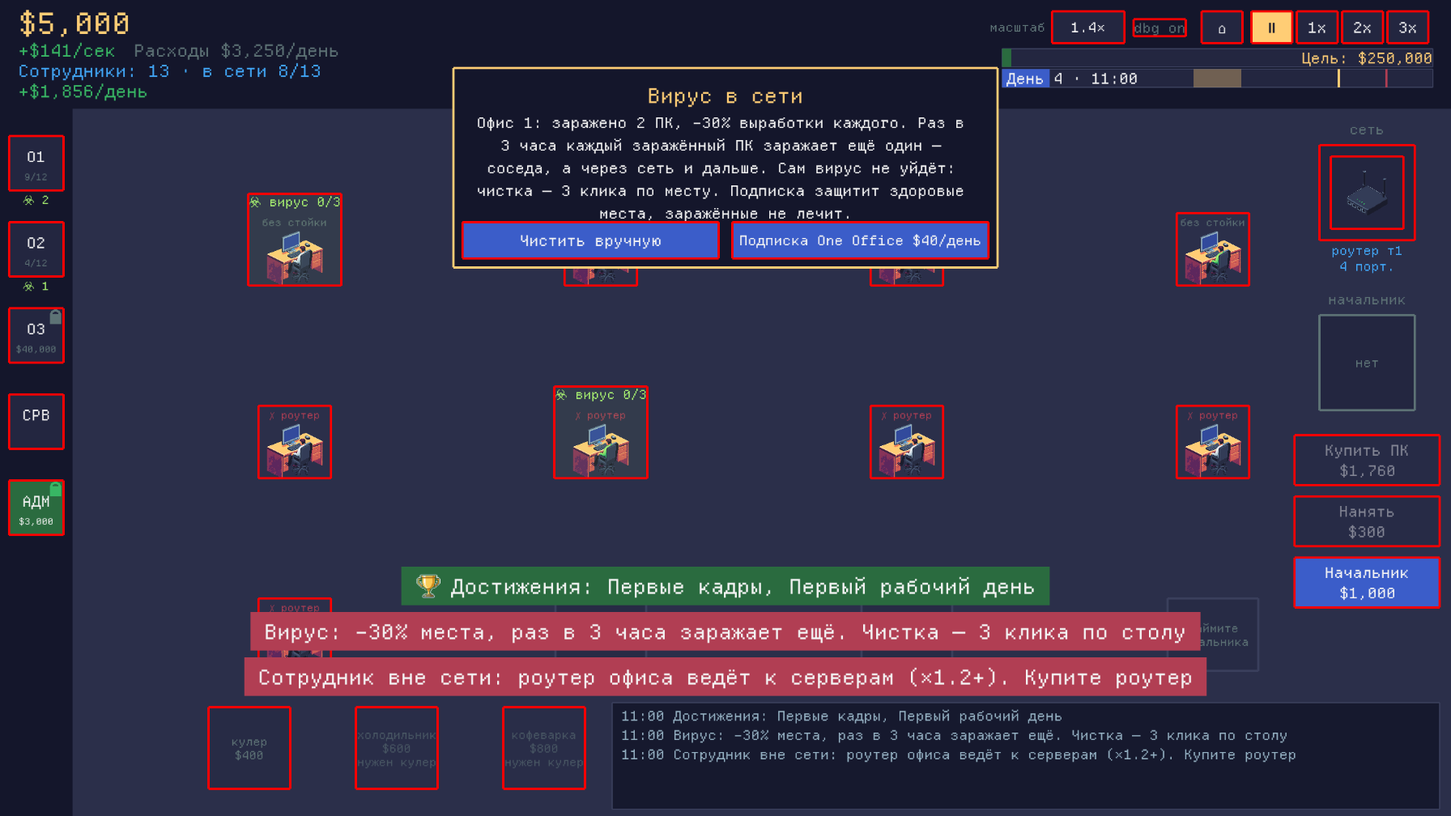
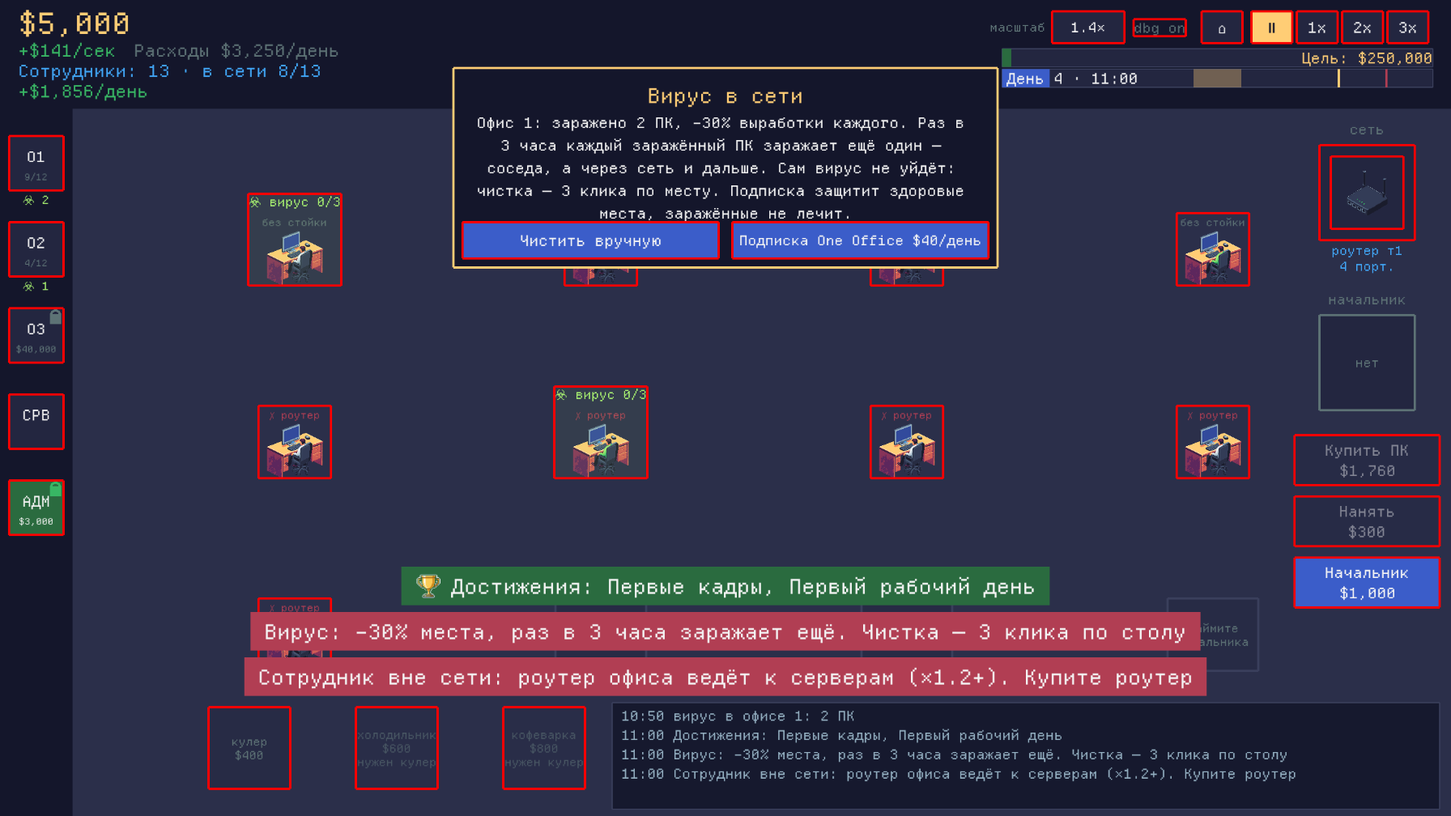
feat(game+client): the HUD feed runs in time order — the day's event outcomes arrive live in state.dayLog and go in when they happen, «10:00 Новый день N» marks the day — ITGAME-163 (owner 18.10, variant C of the 150 acceptance)
The owner's answer in the 146/147/150 acceptance (п.4) was «событие в 10:00
утра „новый день“»; asked in detail, he chose C: the feed is a live stream.
Before, the server sent the day's event outcomes (EventLog: virus, deadline,
audit, a card's choice) only with the evening report, so the clock ran back
in the strip — «18:40 Кулер (О1)» then «10:50 вирус в офисе 1…».

Server: stateMessage.dayLog — the current day's EventLog «HH:MM текст», the
same lines dayReport.events gets, a copy (the party's log keeps growing, the
snapshot is written to the socket later), [] not null.

Client (src/eventlog.ts, no Phaser): parseLogLine splits the server's own
«HH:MM» (ITGAME-150); takeDayLog keeps a cursor «seed:day» → lines shown, so
the snapshot (live) and the evening report both read the journal and nothing
goes in twice — another day or party starts from the top, a shorter log of
the same day (restore) adds nothing; newDayLine gives «Новый день N» when a
snapshot of the same party brings a later day, with the clock of the day's
start even if the tab saw it after tick 0, one line after an offline gap of
several days. HUDScene.refresh puts, per snapshot, the new-day line, then the
snapshot diffs, then the journal lines, so a card's «Событие: …» precedes its
outcome; the report adds only unseen journal lines and the day summary last
(the ITGAME-150 key still stops a re-sent report from adding the summary
again); with skipReports the unseen journal lines go in too, the summary
[…]

Changed region(s): [[0.4375, 0.8611, 0.9062, 0.9534]]

diff --git a/client/src/scenes/HUDScene.ts b/client/src/scenes/HUDScene.ts
@@ -16,7 +16,8 @@ import { emitUi } from '../uibus'
 import { activeZoom, applyZoom, ZOOM_OPTIONS, zoomLabel } from '../uiscale'
 import { FONT, HIRES_CAMERA } from '../render'
 import { ONBOARD_STEPS, onboardStep } from '../onboarding'
-import { LOG_LINES, diffEvents, wrapHanging } from '../eventlog'
+import { LOG_LINES, diffEvents, newDayLine, takeDayLog, wrapHanging } from '../eventlog'
+import type { DayLogCursor } from '../eventlog'
 import { WORKDAY, dayShare, hourShare } from '../workday'
 import {
   checkAchievements,
@@ -122,6 +123,9 @@ export class HUDScene extends Phaser.Scene {
   // Отчёт, уже выложенный в журнал («сид:день», ITGAME-150): сервер пересылает отчёт
   // после переподключения в фазе day_report — второй раз его строки в журнал не идут.
   private logReport = ''
+  // Сколько строк журнала дня сервера («сид:день») лента уже положила (ITGAME-163): их
+  // читают и снапшот (state.dayLog, вживую), и вечерний отчёт — повторов нет.
+  private logDay: DayLogCursor = { key: '', shown: 0 }
   // Плашка онбординга (ITGAME-21): текущий шаг цепочки (null — не показываем) и её объекты.
   private coachStep: number | null = null
   private coachBg!: Phaser.GameObjects.Rectangle
@@ -367,6 +371,7 @@ export class HUDScene extends Phaser.Scene {
     this.logLines = []
     this.logPrev = null
     this.logReport = ''
+    this.logDay = { key: '', shown: 0 }
     tag(this.add.rectangle(540, 620, 730, 94, 0x14162b, 0.9).setOrigin(0).setStrokeStyle(1, 0x3a3f5c), 'hud.log.bg')
     this.logText = tag(this.add.text(548, 624, '', {
       fontFamily: FONT, fontSize: '12px', color: '#94b0c2', lineSpacing: 2,
@@ -821,7 +826,12 @@ export class HUDScene extends Phaser.Scene {
   }
 
   private refresh(s: StateMessage) {
+    // Лента (ITGAME-163): граница дня, изменения снапшота, итоги событий дня со своим
+    // «HH:MM» — в этом порядке, чтобы «Событие: …» вставало раньше своего исхода.
+    const newDay = newDayLine(this.logPrev, s)
+    if (newDay) this.logLine(newDay.text, newDay.clock ?? undefined)
     if (this.logPrev) for (const l of diffEvents(this.logPrev, s)) this.logLine(l)
+    this.putDayLog(`${s.seed}:${s.day}`, s.dayLog)
     this.logPrev = s
     if (s.phase === 'running') {
       try {
@@ -1115,6 +1125,13 @@ export class HUDScene extends Phaser.Scene {
     this.logText.setText(this.logLines.join('\n'))
   }
 
+  // Строки журнала дня сервера, которых лента ещё не видела (ITGAME-163).
+  private putDayLog(key: string, log: string[]) {
+    const { cursor, lines } = takeDayLog(this.logDay, key, log)
+    this.logDay = cursor
+    for (const l of lines) this.logLine(l.text, l.clock ?? undefined)
+  }
+
   private toast(text: string, ms = 1500, opts?: { top?: boolean; bg?: string; icon?: string }) {
     const where: 'top' | 'bottom' = opts?.top ? 'top' : 'bottom'
     const bg = opts?.bg ?? '#b13e53'
@@ -1253,6 +1270,8 @@ export class HUDScene extends Phaser.Scene {
     playSfx(this, r.profit >= 0 ? 'bong' : 'drop')
     if (this.skipReports) {
       client.send('next_day')
+      // Без окна отчёта строки дня, которых лента не видела, всё равно ложатся (ITGAME-163).
+      this.putDayLog(`${client.latest?.seed ?? ''}:${r.day}`, r.events)
       const toastBg = r.profit > 0 ? '#257179' : r.profit === 0 ? '#333c57' : '#b13e53'
       this.toast(
         `День ${r.day}: прибыль ${fmtMoney(r.profit)} · баланс ${fmtMoney(r.balance)}`,
@@ -1261,18 +1280,14 @@ export class HUDScene extends Phaser.Scene {
       )
       return
     }
-    // Журнал событий: строки дня, итог последним (в ветке skipReports итог кладёт тост).
-    // Строка журнала сервера начинается со своего «HH:MM» (logEvent) — в ленту идёт оно,
-    // а не часы прихода отчёта: было «19:00 · 10:50 вирус…» (ITGAME-150). Пересланный
-    // отчёт того же дня (переподключение в фазе day_report) строк второй раз не кладёт.
+    // Журнал событий: итог дня последним (в ветке skipReports итог кладёт тост). Строки
+    // журнала сервера лента уже взяла из снапшотов вживую (ITGAME-163), отчёт докладывает
+    // только те, что она не видела, — со своим «HH:MM» (ITGAME-150). Пересланный отчёт
+    // того же дня (переподключение в фазе day_report) итог второй раз не кладёт.
     const reportKey = `${client.latest?.seed ?? ''}:${r.day}`
     if (this.logReport !== reportKey) {
       this.logReport = reportKey
-      for (const e of r.events) {
-        const at = /^(\d\d:\d\d) (.*)$/.exec(e)
-        if (at) this.logLine(at[2], at[1])
-        else this.logLine(e)
-      }
+      this.putDayLog(reportKey, r.events)
       this.logLine(`День ${r.day}: прибыль ${fmtMoney(r.profit)} · баланс ${fmtMoney(r.balance)}`)
     }
     // Серверная пауза (ITGAME-18): запоминаем скорость в sessionStorage
@@ -1593,6 +1608,7 @@ export class HUDScene extends Phaser.Scene {
     this.logPrev = null
     this.logLines = []
     this.logReport = ''
+    this.logDay = { key: '', shown: 0 }
     this.logText.setText('')
     this.hideCoach()
   }

diff --git a/client/src/eventlog.ts b/client/src/eventlog.ts
@@ -1,8 +1,42 @@
-// Журнал событий нижней полосы HUD (ITGAME-21): сервер ленты событий не шлёт, поэтому
-// строки по изменениям между двумя снапшотами одной партии считает клиент. Без Phaser.
+// Журнал событий нижней полосы HUD (ITGAME-21): строки по изменениям между двумя
+// снапшотами одной партии считает клиент, итоги событий дня сервер шлёт сам —
+// state.dayLog (ITGAME-163). Без Phaser.
 import type { StateMessage } from './protocol'
 
 export const LOG_LINES = 5
+
+// Строка ленты: clock null — часы ленты в момент, когда строка легла.
+export interface LogEntry { clock: string | null; text: string }
+
+// Строка журнала сервера начинается со своего «HH:MM» (logEvent) — в ленту идёт оно,
+// а не часы прихода (ITGAME-150).
+export function parseLogLine(e: string): LogEntry {
+  const at = /^(\d\d:\d\d) (.*)$/.exec(e)
+  return at ? { clock: at[1], text: at[2] } : { clock: null, text: e }
+}
+
+// Сколько строк журнала дня key («сид:день») лента уже положила.
+export interface DayLogCursor { key: string; shown: number }
+
+// Новые строки журнала дня (ITGAME-163): журнал дня только растёт, так что новое —
+// хвост после shown; другой key (новый день, другая партия) — журнал с начала. Его
+// читают и снапшот (вживую), и вечерний отчёт: что лента уже видела, второй раз не идёт.
+// Журнал того же дня короче (restore) — без повторов, курсор встаёт на его длину.
+export function takeDayLog(cur: DayLogCursor, key: string, log: string[]): { cursor: DayLogCursor; lines: LogEntry[] } {
+  const from = cur.key === key ? cur.shown : 0
+  return { cursor: { key, shown: log.length }, lines: log.slice(from).map(parseLogLine) }
+}
+
+// «Новый день N» (ITGAME-163, слово владельца 18.10): день той же партии сменился между
+// снапшотами — граница дня в ленте. Часы — начало дня, даже если вкладка увидела день
+// не с первого тика; офлайн на несколько дней — одна строка на итоговый день.
+export function newDayLine(prev: StateMessage | null, s: StateMessage): LogEntry | null {
+  if (!prev || prev.seed !== s.seed || s.day <= prev.day) return null
+  const [h, m] = s.clock.split(':').map(Number)
+  const start = h * 60 + m - Math.round((s.tickInDay * 60) / s.ticksPerHour)
+  const pad = (n: number) => String(n).padStart(2, '0')
+  return { clock: `${pad(Math.floor(start / 60))}:${pad(start % 60)}`, text: `Новый день ${s.day}` }
+}
 
 const names = (o: StateMessage['offices'][number]) => o.employees.map((e) => e.name)
 

diff --git a/client/src/debug/contract.gen.ts b/client/src/debug/contract.gen.ts
@@ -2,7 +2,7 @@
 import type { ItdApi, MemberSpec, TypeSpec } from './agentApi'
 export const CONTRACT = {
   "schema": 1,
-  "hash": "ca87a5cc61b9",
+  "hash": "65151234bfa3",
   "methods": {
     "version": {
       "kind": "prop",
@@ -3341,6 +3341,11 @@ export const CONTRACT = {
           "type": "ActiveEventInfo | null",
           "optional": false,
           "doc": "висящее событие Unseen Forces"
+        },
+        "dayLog": {
+          "type": "string[]",
+          "optional": false,
+          "doc": ""
         },
         "prices": {
           "type": "{ pc: number; hire: number; boss: number; admin: number; adminDept: number; gateway: number; cooler: number; fridge: number; coffeeMachine: number; repair: number; serverLevels: { mult: number; price: number; }[]; coreLevels: { capacity: number; price: number; mult: number; }[]; antivirusTiers: { name: string; seats: number; price: number; }[]; }",

diff --git a/client/src/protocol.ts b/client/src/protocol.ts
@@ -149,6 +149,9 @@ export interface StateMessage {
   virusWaveAt: string // «HH:MM», с которого видна следующая волна вируса; '' — заражённых нет (ITGAME-103)
   antivirus: AntivirusInfo // подписка на антивирус (ITGAME-137)
   activeEvent: ActiveEventInfo | null // висящее событие Unseen Forces
+  // Итоги событий текущего дня «HH:MM текст» (ITGAME-163): те же строки, что придут в
+  // dayReport.events, но вживую — лента HUD кладёт строку, когда событие случилось.
+  dayLog: string[]
   prices: {
     pc: number
     hire: number

diff --git a/server/internal/ws/protocol.go b/server/internal/ws/protocol.go
@@ -98,8 +98,12 @@ type stateMessage struct {
 	VirusWaveAt       string           `json:"virusWaveAt"`    // «HH:MM», с которого видна следующая волна вируса; "" — заражённых нет (ITGAME-103)
 	Antivirus         antivirusInfo    `json:"antivirus"`      // подписка на антивирус (ITGAME-137)
 	ActiveEvent       *activeEventInfo `json:"activeEvent"`
-	Prices            prices           `json:"prices"`
-	OfflineReport     bool             `json:"offlineReport,omitempty"` // первый снапшот после resume: следом идёт offline_report (ITGAME-76)
+	// Итоги событий текущего дня «HH:MM текст» (ITGAME-163) — те же строки, что
+	// придут в dayReport.events, но вживую: лента HUD кладёт строку, когда событие
+	// случилось, а не вечером с отчётом.
+	DayLog        []string `json:"dayLog"`
+	Prices        prices   `json:"prices"`
+	OfflineReport bool     `json:"offlineReport,omitempty"` // первый снапшот после resume: следом идёт offline_report (ITGAME-76)
 }
 
 // officeInfo — офис в снапшоте: всё для отрисовки комнаты и панели.
@@ -436,6 +440,8 @@ func snapshot(g *game.Game, speed int, resumed bool, scenario string) stateMessa
 		CreditLimit: cfg.CreditLimit, CreditRatePct: int(cfg.CreditRate * 100),
 		BankruptInDays: g.BankruptInDays(), VirusWaveAt: g.VirusWaveClock(), Antivirus: av,
 		ActiveEvent: active, Seed: g.SeedString(), Scenario: scenario,
+		// Копия, не nil: журнал партии растёт дальше, а снапшот уходит в сокет позже.
+		DayLog:    append(make([]string, 0, len(g.EventLog)), g.EventLog...),
 		TickInDay: g.TickInDay, DayIncome: g.DayIncome, DayProfit: g.DayProfit(),
 		Prices: prices{PC: cfg.PCPrice, Hire: cfg.HirePrice,
 			Boss: cfg.BossPrice, Admin: cfg.AdminPrice, AdminDept: cfg.AdminDeptPrice, Gateway: cfg.GatewayPrice, Cooler: cfg.CoolerPrice,

diff --git a/server/internal/ws/daylog_test.go b/server/internal/ws/daylog_test.go
@@ -1,0 +1,50 @@
+package ws
+
+import (
+	"encoding/json"
+	"regexp"
+	"slices"
+	"strings"
+	"testing"
+
+	"itdirector/internal/game"
+)
+
+// Журнал дня в снапшоте (ITGAME-163): state.dayLog — итоги событий текущего
+// дня «HH:MM текст», те же строки, что придут в dayReport.events, но вживую:
+// лента HUD кладёт их, когда событие случилось, а не вечером с отчётом.
+
+func TestSnapshotDayLog(t *testing.T) {
+	// Новая партия: журнала нет — пустой массив, не null.
+	s := snapshot(game.New(game.DefaultConfig()), 1, false, "")
+	if s.DayLog == nil || len(s.DayLog) != 0 {
+		t.Errorf("новая партия: dayLog %#v, хотим пустой массив", s.DayLog)
+	}
+	raw, _ := json.Marshal(s)
+	if !strings.Contains(string(raw), `"dayLog":[]`) {
+		t.Errorf("в JSON нет \"dayLog\":[] — клиент ждёт массив")
+	}
+
+	g, err := game.NewFixture(game.DefaultConfig(), "virus_outbreak", "1")
+	if err != nil {
+		t.Fatal(err)
+	}
+	if err := g.ChooseEvent(0); err != nil {
+		t.Fatal(err)
+	}
+	s = snapshot(g, 1, false, "virus_outbreak")
+	if !slices.Equal(s.DayLog, g.EventLog) || len(s.DayLog) == 0 {
+		t.Fatalf("dayLog %v, хотим журнал дня %v", s.DayLog, g.EventLog)
+	}
+	last := s.DayLog[len(s.DayLog)-1]
+	if !regexp.MustCompile(`^\d\d:\d\d вирус в офисе 1: чистим вручную$`).MatchString(last) {
+		t.Errorf("строка журнала %q, хотим «HH:MM вирус в офисе 1: чистим вручную»", last)
+	}
+	// Снапшот — копия: журнал партии дальше растёт, разосланный снапшот нет.
+	n := len(s.DayLog)
+	g.EventLog = append(g.EventLog, "13:00 лишнее")
+	g.EventLog[0] = "00:00 переписано"
+	if len(s.DayLog) != n || s.DayLog[0] == "00:00 переписано" {
+		t.Errorf("dayLog делит память с журналом партии: %v", s.DayLog)
+	}
+}

diff --git a/docs/development.md b/docs/development.md
@@ -1353,7 +1353,7 @@ client with headless Chromium via the `window.itd`/`window.__itd` facade
 | `npm run qa:meta` | stats/achievements modals; ITGAME-83 icons: the menu buttons (16) and modal titles (24) — `icon_trophy`, `icon_chart`, `icon_warning` on «Начать заново?» / «Партия в другой вкладке»; each achievement card's own `ach_*` (16) left of its title, dimmed while locked (alpha 0.6 and a grayscale `ColorMatrix` in `preFX`), `icon_lock` (12) left of every «Заблокировано», no emoji in the modal | :4173, `vite preview` — needs a Go server already on :8080 |
 | `npm run qa:buttons` | buy-button enabled/tooltip/alpha states (ITGAME-17); R1–R7 the room action column (ITGAME-94): `btn.pc`/`hire`/`boss` in the `office` scene at x 1142, 128×44, y 384/438/492, no overlap with any office object; the `room.tooltip` sits left of the column; a real mouse click at the `screen()` point buys a PC; under the router window `hit()` fails, `X`, no tooltip; in a locked office the column is hidden and `itd.click` answers `code: 'hidden'`; `btn.gateway` in `serverRoom` at x 1142 y 452; AV1–AV8 the antivirus (ITGAME-137): `btn.antivirus` in `serverRoom` at x 1142 y 506 128×44, a real click opens «Антивирус» with three tiers and «Отключить» disabled (`D`, a click sends nothing), a real click on SOHO Edition sends `set_antivirus` slot 1 (button «Антивирус / SOHO Edition», first seats covered, billed $12), at $10 the current tier and the upgrades are `D` and «Отключить» sends slot 0 with the day still billed $12, a shield per covered seat in the office, the day report line «Антивирус: -$12» | :4180, self-serve |
 | `npm run qa:tabs` | multi-tab session takeover (ITGAME-35); T0 the `Storage.prototype` probe; T1–T2 storage fully blocked (ITGAME-80): «Сохранить и выйти» → «Продолжить» resumes the same sid from tab memory, after a reload no «Продолжить» and a new sid | :4179, self-serve + temp saves dir |
-| `npm run qa:hud` | HUD layout column (left block right ≤ 832 since ITGAME-94, right column left ≥ 848), toast stack, no overlaps (ITGAME-16); goal/day bars G1–G3/D1–D3, tab locks L1–L3, event log E1–E3, onboarding coach O1–O6 (ITGAME-21); `virus_outbreak` V1 «☣ 2»/«☣ 1» under the office tabs, none under О3, V2 a live wave (`virusWaveIn` 1 by `itd.restore`, speed 3) grows the badges to the company total with no wave toast, V3 the day report line «Вирус:     +k ПК за день (−$X)» (ITGAME-138, ITGAME-146), V4 the `hud.log` strip after that report: one time per line, «к вечеру заражено m ПК» with the server's own time, the day summary last (ITGAME-150) | :4174, self-serve |
+| `npm run qa:hud` | HUD layout column (left block right ≤ 832 since ITGAME-94, right column left ≥ 848), toast stack, no overlaps (ITGAME-16); goal/day bars G1–G3/D1–D3, tab locks L1–L3, event log E1–E3, onboarding coach O1–O6 (ITGAME-21); `virus_outbreak` V1 «☣ 2»/«☣ 1» under the office tabs, none under О3, V2 a live wave (`virusWaveIn` 1 by `itd.restore`, speed 3) grows the badges to the company total with no wave toast, V3 the day report line «Вирус:     +k ПК за день (−$X)» (ITGAME-138, ITGAME-146), V4 the `hud.log` strip after that report: one time per line, «к вечеру заражено m ПК» with the server's own time, the day summary last (ITGAME-150), no line twice; V5 the strip live (ITGAME-163): «HH:MM вирус в офисе 1: 2 ПК» from `state.dayLog` before any report, «чистим вручную» right after `event_choice`; V6 after `next_day` «10:00 Новый день N+1» right below the day summary | :4174, self-serve |
 | `npm run qa:facade` | `window.itd` `active`/`log()`/`overlaps()` kind (ITGAME-38); HUD `+X/день` = the day's profit on `mid_day10` (ITGAME-49); `itd.step({ticks})` advances > 10 ticks per call (ITGAME-56); UI-scale ids/cycle and a stored 2× → «по окну»; canvas-vs-window `offscreen()` entry (ITGAME-61); a throwing `localStorage` for `itd.uiScale` neither breaks the load nor the zoom choice (ITGAME-67); ⏸ on pause is an amber block, speed(1) restores it (ITGAME-62); `itd.screen()` on the day report — title, blocker, `X`/`free`/`frame`, `D` on a buy button without money (ITGAME-72), the office's `btn:pc` under the report dim is `X` and `hit()` fails (S2b, ITGAME-94); build stamp and «устарело, обнови» on a faked stand `index.html`, `itd.stale()` (ITGAME-78); `itd.sandbox()`: the owner's shared key survives «Сдаться» and a second party, `fakeOwner()`, `restore()` puts back / keeps (ITGAME-77); `itd.stack()` under the day report: the dimmer wins over `btn.menu`, same as `hit().top` (ITGAME-74); `hit()` and the `X` flag follow the real hit area — a 1×1 hitArea on `btn.next_day` makes it covered (owner 10.10); S4 the exit window's ✕ over the event card stays out of `btn:event:1`'s `screen()` label, H3 a rectangle added in this frame: `stack()` and a same-instant canvas mousedown both miss it, after one `requestAnimationFrame` both get it (ITGAME-113); `itd.play()` on `fresh` (seed 7): hire → hire `FAIL no_free_pc` → day → buy_pc → hire `FAIL not_enough_money` → day with the balances 600>300>614>39>353, `itd.ledger()` books balanced, `adjust` after `itd.set` (ITGAME-73); K1 the office tooltip's text in its hidden container is `visible: false`, K2 «ТУПИК» and the day report give 0 overlaps entries from the dim (22 with the `dim` mark removed) (ITGAME-87); K3 `nodes().fill`, K4 `menuReady` false right after `sandbox.restore()` and the plate still for 1.5 s after it, `stale().shown` false/true/false (ITGAME-88); L1–L3 and L6 storage fully blocked — both getters and `Storage.prototype` throw `SecurityError` (ITGAME-80): the menu loads without «Продолжить», a party starts, the `hire` receipt is ok, «Первые кадры» toasts once, the report pause keeps 3× in tab memory; without `?debug=1` (no `window.itd`) no pageerror and the `2` key starts a party (the «Продолжить» round trip needs saves on disk — it is in `qa:tabs` T1–T2) | :4175, self-serve |
 | `npm run qa:slots` | office/server-room slot rendering — lunch, boss, gateway, router, amenities, racks; `broken_pc`: one zone `office.slot.0` covers the worker and the «✖ чинить k/N» label, real clicks repair 0/3 → 1/3 → 2/3 → repaired, then the same zone motivates; right click and tooltip shared (ITGAME-75/92/93); `virus_outbreak` (ITGAME-138): a real click on «Чистить вручную» closes the card, «☣ вирус 0/3» on seats 1 and 6 only, the plate «☣ вирус: 2 из 9 мест · волна в 12:00», tab badges «☣ 2»/«☣ 1», the zone covers the worker and the label, exactly two lime-blinking zones and no red one, `itd.stack` wins `office.slot.0` at the label and the worker, no overlaps, the tooltip «ЗАРАЖЁН … 0/3», «вирус -30%», «мотивация: после чистки», right click opens the fire dialog and sends nothing, real clicks send `virus_click` 1/3 → 2/3 → clean (zone back to 64×64, plate «1 из 9», badge «☣ 1»), then the zone motivates; a broken infected seat (by `itd.restore`) shows «✖ чинить 0/3» in a red zone, the tooltip «после ремонта вирус останется», clicks send `repair_click`, and after the repair «☣ вирус 0/3» is back; the tooltip hides when the router/fire window opens and stays hidden after a snapshot and `itd.hover` (ITGAME-89); 3в with `?debug=1` frames: under the router window, the HUD exit dialog and the day report no frame of a covered object lies above the dim, every frame sits at its object's depth + 0.5, the window's own buttons are framed above it, also after a snapshot (ITGAME-84); EV1–EV4 the event card: `btn.event.0`/`btn.event.1` framed once each at 41.5 with the frames in `eventUI`, still once after a snapshot rebuilds the card, under the exit dialog's dim 70 together with the header, none left after the event is cleared; OF1–OF4 «Пока вас не было»: the final `btn.offline.menu`, then the ordinary report over it — `btn.offline.continue` framed once at 56.5 and the dim at 55.5 (frames in `offlineUI`, the final window's frames gone), header frames under 55 also after a snapshot, «Продолжить →» leaves no `btn.offline.*` frame or id (ITGAME-97); shelf (`spare_pcs`, no amenities): without a cooler `office.amenity.fridge`/`coffee_machine` are disabled, no hand cursor, «нужен кулер», hover shows «Сначала купите кулер» and real clicks send nothing; a real click on the cooler sends `buy_cooler`, then both cells open and real clicks send `buy_fridge`, `buy_coffee` with no server error (ITGAME-102) | :4177, self-serve |
 | `npm run qa:sprite-try` | `itd.sprite.try/reset/list` (ITGAME-119): a clean swap re-points live objects and reports `sha256`; an off-palette PNG is applied and named in `problems`; a sleeping scene's key; fallback keys stay independent; `unknown_key`/`bad_src`/`bad_size`/`not_tried`; no `crypto.subtle` → `sha256: null`; `reset()` restores the original pixels after two tries; `assets()`/`assetSet()` mark the key `tried`; `{filter: 'linear'}` sets LINEAR on the GL texture, the default stays NEAREST, `bad_filter`, `reset()` brings back NEAREST; the menu `icon_trophy` (ITGAME-83) keeps 16×16 under a 64px try, loads LINEAR as a `render: smooth` key, `try` defaults to linear for it and `assets()` reports it `smooth` with no off-palette colours | :4187, self-serve |
@@ -1635,11 +1635,21 @@ emoji); the tab that can be bought now (offices go in order, money ≥ price)
 turns green (fill `0x2a6b3f`, green lock, white price) — distinct from the
 active-tab stroke owned by `highlightNav()`. The bottom strip `hud.log`
 (`hud.log.bg`, x 540..1270, y 620..714, both rooms) keeps the 5 latest lines
-with the game clock: toasts, day reports with their event lines (the day's server
-journal lines with their own «HH:MM», then the day summary; a report the server re-sends
-after a reconnect in `day_report` adds nothing — ITGAME-150),
+with the game clock: toasts, the day's server journal lines live — `state.dayLog`
+carries the event outcomes of the current day as «HH:MM текст» (the same lines
+`day_report.events` gets), and each goes in with its own «HH:MM» as soon as a
+snapshot brings it (ITGAME-163; before, they came only with the evening report and
+the clock ran back, «18:40 Кулер» → «10:50 вирус…»); the evening report then adds
+only the journal lines the strip has not seen and the day summary last (a report
+the server re-sends after a reconnect in `day_report` adds nothing — ITGAME-150);
+«10:00 Новый день N» when a snapshot of the same party brings a later day (the
+clock of the day's start, one line after an offline gap of several days);
 «Событие: …» and snapshot diffs from `client/src/eventlog.ts` (hire/fire, PC,
-router, boss, breakdown/repair, racks, amenities, gateway, core); bottom toasts
+router, boss, breakdown/repair, racks, amenities, gateway, core) — per snapshot
+the order is the new-day line, the diffs, then the journal lines, so a card's
+«Событие: …» precedes its outcome. A reload shows the day's journal so far
+(the strip starts empty and takes `dayLog` from the start); with
+`skipReports` the journal lines still go in, the summary stays a toast. Bottom toasts
 anchor at y 614 above it and the server-room summary line sits at y 604.
 The onboarding chain (`client/src/onboarding.ts`): a coach plate `hud.coach`
 (`hud.coach.bg`, x 884..1130, y 104..150) with a frame `hud.coach.target` on
